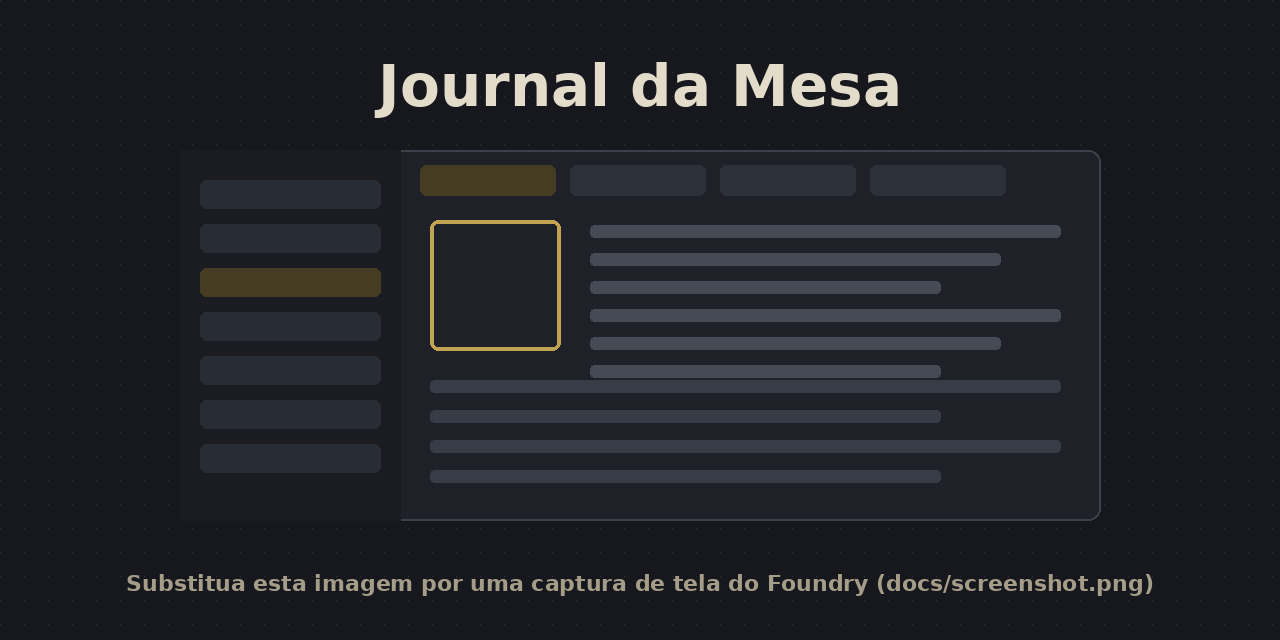
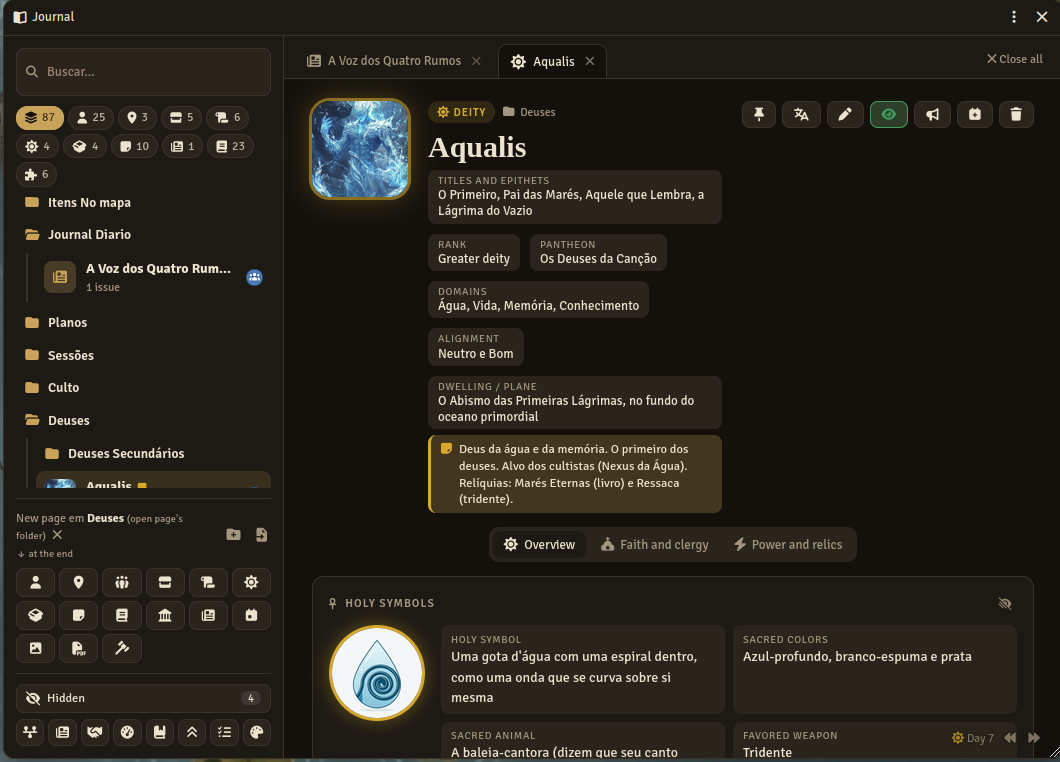
Galeria e seção sobre como o módulo foi feito

diff --git a/README.md b/README.md
@@ -2,12 +2,13 @@
 
 **Versão 4.10.5** · Foundry VTT 14 · D&D 5e 6 · Português e English · Licença MIT · ✅ Testado e aprovado no Foundry
 
-![Journal da Mesa no Foundry VTT](docs/screenshot.png)
+![Journal da Mesa no Foundry VTT: página de divindade](docs/screenshot.png)
 
 Módulo para Foundry VTT **14** (versão mínima; verificado no 14.369) com D&D 5e (testado até o 6.0.6). Janela única com abas e pastas para NPCs, locais, organizações, lojas, missões, divindades, baús de saque, História, Regras da Mesa e Jornais e Notícias. É uma alternativa mais simples ao Monk's Enhanced Journal e lê e grava os dados no mesmo formato que ele.
 
 > O Journal da Mesa é um projeto independente: não é afiliado ao Monk's Enhanced Journal nem a seu autor. A compatibilidade é só de formato de dados, para que você possa trocar de um para o outro sem perder nada.
 
+- [Galeria](#galeria)
 - [Compatibilidade](#compatibilidade)
 - [Instalação e atualização](#instalação-e-atualização)
 - [Suporte e sugestões](#suporte-e-sugestões)
@@ -15,8 +16,17 @@ Módulo para Foundry VTT **14** (versão mínima; verificado no 14.369) com D&D 
 - [Tipos de página](#tipos-de-página)
 - [Jornais e Notícias](#jornais-e-notícias--imprensa-do-mundo-47)
 - [Arquivos do código](#arquivos-do-código-410)
+- [Sobre como este módulo foi feito](#sobre-como-este-módulo-foi-feito)
 - [Licença e créditos](#licença-e-créditos)
 - [English summary](#english-summary)
+
+## Galeria
+
+| Jornal do Dia | Loja | Regras da Mesa |
+|---|---|---|
+| [![Jornal de Notícias: edição aberta na janela de jornal](docs/jornal.png)](docs/jornal.png) | [![Loja com estoque, preços e pechincha](docs/loja.png)](docs/loja.png) | [![Regras da Mesa: tópicos da sessão 0](docs/regras-da-mesa.png)](docs/regras-da-mesa.png) |
+
+Clique numa imagem para ver em tamanho maior.
 
 ## Compatibilidade
 
@@ -297,8 +307,18 @@ Um erro no console (F12) mostra em qual desses arquivos ele aconteceu.
 | `CHANGELOG.md` | histórico de versões |
 | `AUDITORIA.md` | auditoria técnica da 4.9 (segurança, achados e o que foi corrigido) |
 | `LICENSE` | licença MIT |
-| `docs/screenshot.png` | imagem do topo deste README |
+| `docs/` | imagens deste README (topo e galeria) |
 | `.github/workflows/release.yml` | monta e anexa o ZIP e o `module.json` ao publicar uma release |
+
+---
+
+## Sobre como este módulo foi feito
+
+Sei que parte da comunidade não gosta de módulos produzidos com IA, então prefiro ser transparente: este foi desenvolvido com ajuda de IA. Não sou programador.
+
+Tudo começou quando um amigo me disse: “cara, ficou muito mais simples, é só fazer uma macro do que você quer”. Fiz a macro para a minha mesa, fui adaptando conforme a necessidade dos jogos e, no fim, ela virou um módulo. Uso nas minhas próprias sessões e resolvi compartilhar caso seja útil para mais alguém.
+
+Se encontrar bugs ou tiver sugestões, abra uma [issue](https://github.com/Daphenius/journal-mesa/issues). Todo retorno é bem-vindo.
 
 ---
 
@@ -319,3 +339,5 @@ Monk's Enhanced Journal, Item Piles, Translate All, Heavy Lore e Ownership Viewe
 **Journal da Mesa** is a single-window journal for Foundry VTT 14 and D&D 5e, with tabs and native folders for NPCs, locations, organizations, shops (weekly stock, daily offers, selling and haggling), quests with rewards and deadlines, deities, loot chests, a world History linked to a timeline, Table Rules (session 0), and an in-world newspaper system with scheduled issues. Everything is stored as native Foundry journals, in the same data format as Monk's Enhanced Journal, so you can switch between the two without losing data (this is an independent project, not affiliated with Monk's Enhanced Journal). The interface is available in Portuguese and English.
 
 Version 4.10.5 was tested and approved by the author in Foundry VTT (14.369) with D&D 5e (6.0.6) before release. Install from Foundry with the manifest URL `https://github.com/Daphenius/journal-mesa/releases/latest/download/module.json` (or extract the release ZIP into `Data/modules/journal-mesa`) and enable it. Optional integrations: Calendário da Mesa, Dados em Cena, Item Piles and Translate All. Issues and suggestions: [GitHub Issues](https://github.com/Daphenius/journal-mesa/issues). Licensed under MIT.
+
+**How this module was made:** I know part of the community doesn't like AI-made modules, so I'd rather be transparent: this one was developed with the help of AI. I'm not a programmer. It started as a macro for my own table, grew as our games needed more, and ended up as a module. I use it in my own sessions and decided to share it in case it's useful to someone else. If you find bugs or have suggestions, please open an issue. All feedback is welcome.
